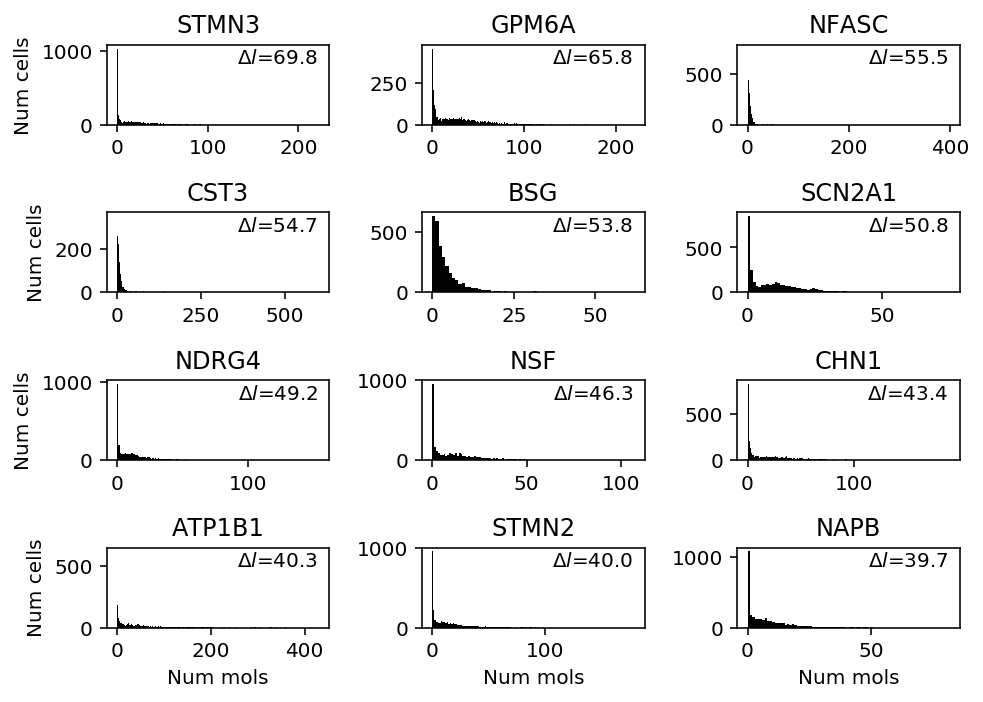
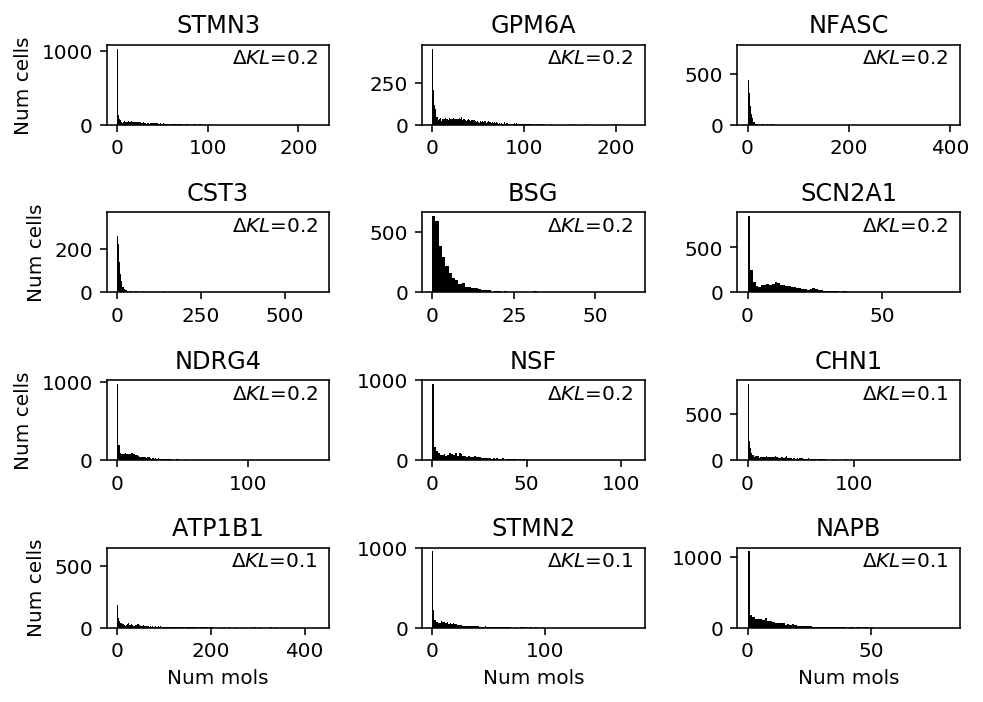
Plot cortex examples

diff --git a/docs/deconv-examples.html b/docs/deconv-examples.html
@@ -1,7 +1,7 @@
 <!DOCTYPE html>
 <html lang="en">
 <head>
-<!-- 2019-05-22 Wed 15:25 -->
+<!-- 2019-05-23 Thu 15:32 -->
 <meta charset="utf-8">
 <meta name="viewport" content="width=device-width, initial-scale=1">
 <title>Distribution deconvolution examples</title>
@@ -1233,8 +1233,7 @@ Read the results.
 </div>
 
 <p>
-Look at the genes where ZIG shows the most gain in validation set log
-likelihood.
+Fix the cortex count matrix (seems to break the parser in <code>pandas</code>).
 </p>
 
 <div class="org-src-container">
@@ -1259,6 +1258,91 @@ EOF
 </pre>
 </div>
 
+<p>
+Look at the fitted distribution for the genes where NPMLE does worst.
+</p>
+
+<div class="org-src-container">
+<pre class="src src-ipython"><span class="org-variable-name">llik_diff</span> = benchmark[<span class="org-string">'cortex'</span>][<span class="org-string">'npmle'</span>] - benchmark[<span class="org-string">'cortex'</span>][<span class="org-string">'gamma'</span>]
+llik_diff.sort_values().head(n=12)
+</pre>
+</div>
+
+<pre class="example">
+Ttr           -3.136362
+Hbb-bs        -3.032071
+Hba-a2_loc1   -2.053220
+Hba-a2_loc2   -1.985382
+Sst           -1.842792
+Apoe          -1.414460
+Npy           -1.403264
+Hbb-b2        -1.365434
+Ccl3          -1.226098
+Mgp           -1.198429
+Acta2         -1.139285
+Ptgds         -1.132885
+dtype: float64
+</pre>
+
+<div class="org-src-container">
+<pre class="src src-ipython"><span class="org-variable-name">k</span> = <span class="org-string">'Ttr'</span>
+<span class="org-variable-name">x</span> = cortex_counts.loc[:,k].values
+<span class="org-variable-name">s</span> = cortex_counts.<span class="org-builtin">sum</span>(axis=1).values
+
+plt.clf()
+<span class="org-variable-name">fig</span>, <span class="org-variable-name">ax</span> = plt.subplots(2, 1)
+fig.set_size_inches(6, 4)
+ax[0].hist(x, bins=np.arange(0, x.<span class="org-builtin">max</span>() + 1, 100), color=<span class="org-string">'k'</span>)
+ax[0].set_title(k.upper())
+ax[0].set_xlabel(<span class="org-string">'Num mols'</span>)
+ax[0].set_ylabel(<span class="org-string">'Num cells'</span>)
+
+<span class="org-keyword">for</span> c, k <span class="org-keyword">in</span> <span class="org-builtin">zip</span>(plt.get_cmap(<span class="org-string">'Dark2'</span>).colors, [<span class="org-string">'Gamma'</span>, <span class="org-string">'ZIG'</span>, <span class="org-string">'Unimodal'</span>, <span class="org-string">'ZIEF'</span>, <span class="org-string">'NPMLE'</span>]):
+  ax[1].plot(*<span class="org-builtin">getattr</span>(scmodes.deconvolve, f<span class="org-string">'fit_{k.lower()}'</span>)(x, s), color=c, lw=1, label=k)
+ax[1].set_xlabel(<span class="org-string">'Latent gene expression'</span>)
+ax[1].set_ylabel(<span class="org-string">'CDF'</span>)
+ax[1].legend(frameon=<span class="org-constant">False</span>)
+fig.tight_layout()
+</pre>
+</div>
+
+
+<div class="figure">
+<p><img src="figure/deconvolution.org/cortex-ttr.png" alt="cortex-ttr.png">
+</p>
+</div>
+
+<p>
+Look at the distribution of latent gene expression values (naively
+estimated) for <i>TTR</i>.
+</p>
+
+<div class="org-src-container">
+<pre class="src src-ipython">pd.Series((x / s)[x &gt; 0]).describe()
+</pre>
+</div>
+
+<pre class="example">
+count    90.000000
+mean      0.059269
+std       0.152847
+min       0.000055
+25%       0.000368
+50%       0.003031
+75%       0.008099
+max       0.610003
+dtype: float64
+</pre>
+
+<p>
+For these genes, more than 90% of the samples have observed count 0, so the
+optimal model appears to predict 0 for all samples.
+</p>
+
+<p>
+Look at genes where ZIG does better than Gamma.
+</p>
+
 <div class="org-src-container">
 <pre class="src src-ipython"><span class="org-variable-name">llik_diff</span> = benchmark[<span class="org-string">'cortex'</span>][<span class="org-string">'point_gamma'</span>] - benchmark[<span class="org-string">'cortex'</span>][<span class="org-string">'gamma'</span>]
 <span class="org-variable-name">query</span> = benchmark[<span class="org-string">'cortex'</span>].loc[llik_diff[llik_diff &gt; 0].sort_values(ascending=<span class="org-constant">False</span>).head(n=12).index].index
@@ -1268,7 +1352,7 @@ fig.set_size_inches(7, 5)
 <span class="org-keyword">for</span> a, k <span class="org-keyword">in</span> <span class="org-builtin">zip</span>(ax.ravel(), query):
   a.hist(cortex_counts.loc[:,k], bins=np.arange(cortex_counts.loc[:,k].<span class="org-builtin">max</span>() + 1), color=<span class="org-string">'k'</span>)
   a.text(x=.95, y=.95,
-         s=f<span class="org-string">"$\Delta l$={llik_diff.loc[k]:.1f}"</span>,
+         s=f<span class="org-string">"$\Delta KL$={llik_diff.loc[k]:.1f}"</span>,
          horizontalalignment=<span class="org-string">'right'</span>,
          verticalalignment=<span class="org-string">'top'</span>,
          transform=a.transAxes)
@@ -1300,7 +1384,7 @@ fig.set_size_inches(7, 5)
 <span class="org-keyword">for</span> a, k <span class="org-keyword">in</span> <span class="org-builtin">zip</span>(ax.ravel(), query):
   a.hist(cortex_counts.loc[:,k], bins=np.arange(cortex_counts.loc[:,k].<span class="org-builtin">max</span>() + 1), color=<span class="org-string">'k'</span>)
   a.text(x=.95, y=.95,
-         s=f<span class="org-string">"$\Delta l$={llik_diff.loc[k]:.1f}"</span>,
+         s=f<span class="org-string">"$\Delta KL$={llik_diff.loc[k]:.1f}"</span>,
          horizontalalignment=<span class="org-string">'right'</span>,
          verticalalignment=<span class="org-string">'top'</span>,
          transform=a.transAxes)
@@ -1333,7 +1417,7 @@ fig.set_size_inches(7, 5)
 <span class="org-keyword">for</span> a, k <span class="org-keyword">in</span> <span class="org-builtin">zip</span>(ax.ravel(), query):
   a.hist(cortex_counts.loc[:,k], bins=np.arange(cortex_counts.loc[:,k].<span class="org-builtin">max</span>() + 1), color=<span class="org-string">'k'</span>)
   a.text(x=.95, y=.95,
-         s=f<span class="org-string">"$\Delta l$={llik_diff.loc[k]:.1f}"</span>,
+         s=f<span class="org-string">"$\Delta KL$={llik_diff.loc[k]:.1f}"</span>,
          horizontalalignment=<span class="org-string">'right'</span>,
          verticalalignment=<span class="org-string">'top'</span>,
          transform=a.transAxes)
@@ -1356,11 +1440,10 @@ fig.tight_layout()
 <li><i>GPM6A</i> (<a href="https://www.ncbi.nlm.nih.gov/gene/234267">Glycoprotein m6a</a>)
 appears to be required for mouse brain develoment, and is expressed in
 specific brain regions</li>
-<li><p>
-<i>SCN2A</i> (<a href="https://www.ncbi.nlm.nih.gov/gene/110876">Sodium channel,
+<li><i>SCN2A</i> (<a href="https://www.ncbi.nlm.nih.gov/gene/110876">Sodium channel,
 voltage-gated, type II, alpha</a>) is needed for propagating actions
-potentials in neurons
-</p>
+potentials in neurons</li>
+</ul>
 
 <p>
 Stratify the gene expression of these genes by inferred cell type.
@@ -1421,15 +1504,14 @@ fig.tight_layout()
 <div class="figure">
 <p><img src="figure/deconvolution.org/cortex-scn2a.png" alt="cortex-scn2a.png">
 </p>
-</div></li>
-</ul>
+</div>
 </div>
 </div>
 </div>
 </div>
 <div id="postamble" class="status">
 <p class="author">Author: Abhishek Sarkar</p>
-<p class="date">Created: 2019-05-22 Wed 15:25</p>
+<p class="date">Created: 2019-05-23 Thu 15:32</p>
 <p class="validation"><a href="http://validator.w3.org/check?uri=referer">Validate</a></p>
 </div>
 </body>
